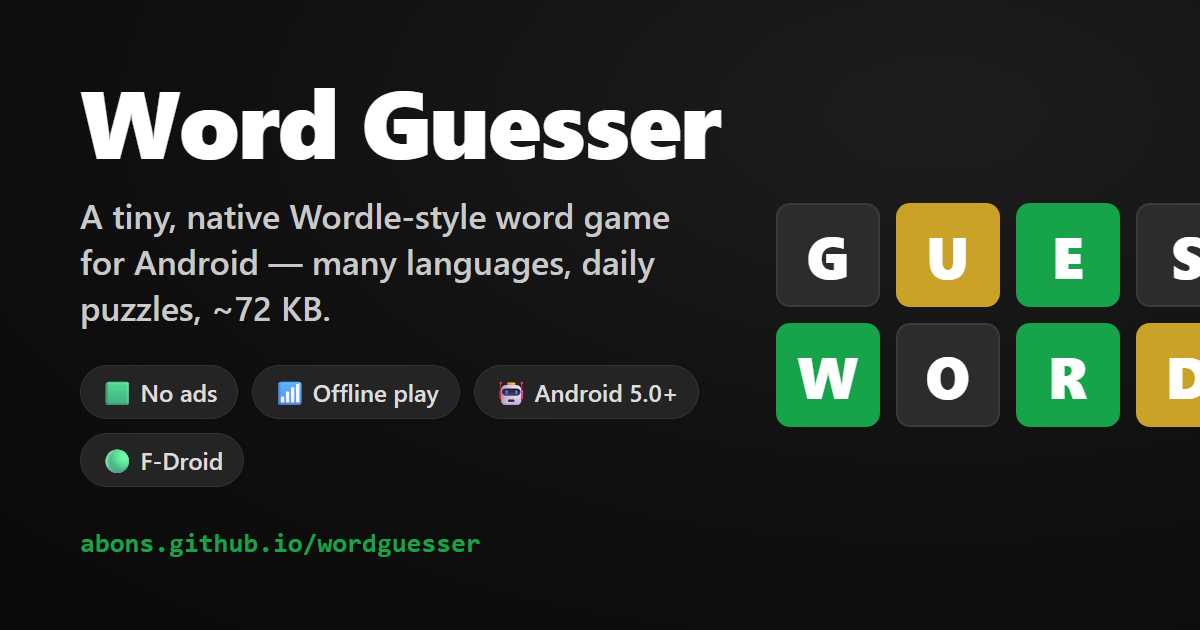
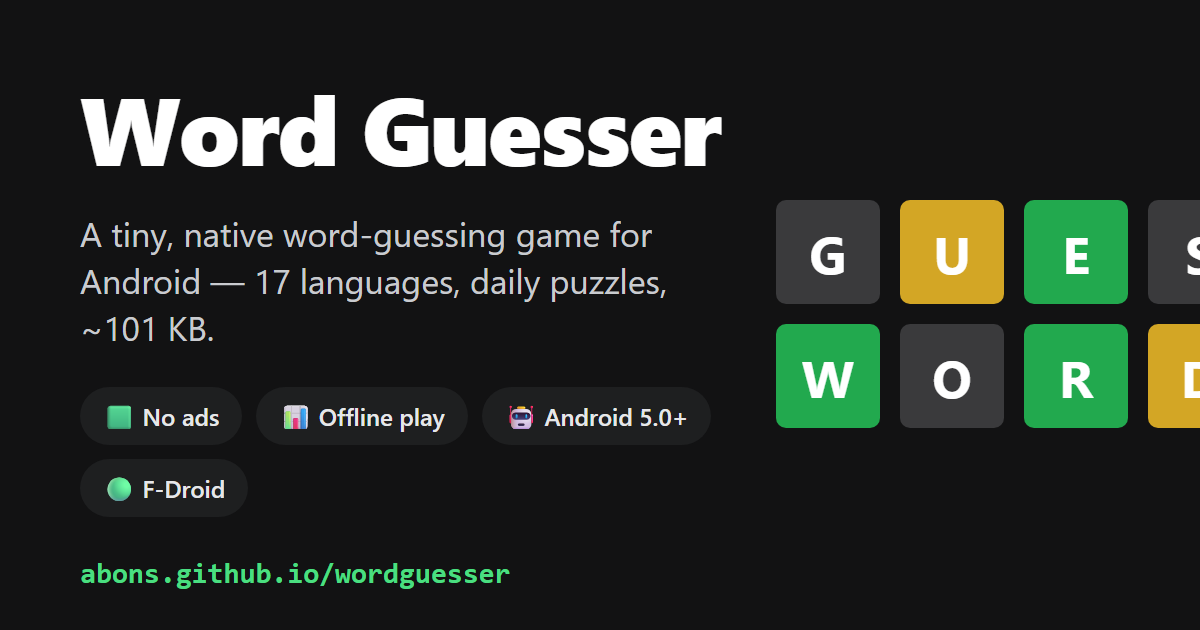
Word Guesser beschrijft zich met wat hij zelf is, niet met een merk van een ander
Wordle is een handelsmerk van een soortgelijk spel (zoals het Nederlandse Lingo
van vroeger) en deze app biedt aanzienlijk meer dan die vergelijking. Overal waar
"Wordle-style" stond staat nu wat er echt is: 17 talen, woordlengte 4-8,
dagpuzzel met leaderboard, timed-modus en duels tegen computer of speler.

- index.html: title, meta description, keywords, og:*, twitter:*, de JSON-LD
  description, de zichtbare tagline en de eigen regel in de spellenlijst.
- README.md en fdroid/apps/com.hrbons.wordguesser.meta (SUMMARY + DESCRIPTION).
- fdroid-official/metadata/*.yml ook, ook al is die route af (NOTES.md, geen
  officiele F-Droid): dat bestand blijft anders als enige de term dragen.

De onopvallendste stond in een PNG en geen enkele grep zou hem hebben gevonden:
assets/og.png is de social-card die bij elke gedeelde link verschijnt en zei
letterlijk "A tiny, native Wordle-style word game ... ~72 KB" -- een getal dat
ook al twee releases achterliep. Opnieuw gerenderd op 1200x630, zelfde indeling.
Er was geen generator, dus die is er nu wel: assets/og-card.html, headless te
renderen met
  chrome --headless --window-size=1200,630 --screenshot=<abs pad>/og.png <abs pad>/og-card.html
Geef --screenshot een absoluut pad, anders faalt hij met "Toegang geweigerd".

NOG OPEN: fdroid/repo/index-v1.json draagt de oude SUMMARY/DESCRIPTION nog,
want die is gegenereerd en ondertekend. rebuild-index.sh trekt hem bij, maar
[…]

diff --git a/index.html b/index.html
@@ -3,9 +3,9 @@
 <head>
 <meta charset="utf-8">
 <meta name="viewport" content="width=device-width, initial-scale=1">
-<title>Word Guesser — tiny native Wordle-style word game for Android</title>
-<meta name="description" content="Download Word Guesser: a tiny (~101 KB), native, ad-free Wordle-style word game for Android. Many languages, variable word length, daily puzzles, leaderboard. Get it directly or via F-Droid.">
-<meta name="keywords" content="Word Guesser, Wordle, Android word game, F-Droid, ad-free, no tracking, Nederlands, woordspel, native, lightweight APK">
+<title>Word Guesser — tiny native word-guessing game for Android</title>
+<meta name="description" content="Download Word Guesser: a tiny (~101 KB), native, ad-free word-guessing game for Android. 17 languages, word length 4–8, daily puzzles, leaderboard, timed mode and duels. Get it directly or via F-Droid.">
+<meta name="keywords" content="Word Guesser, word guessing game, daily word puzzle, Android word game, 17 languages, F-Droid, ad-free, no tracking, Nederlands, woordspel, native, lightweight APK">
 <meta name="author" content="hrbons">
 <meta name="google-site-verification" content="B81phBCY0u5E3xFZ7Vp7M6JqVuyCbMqDldoJch3vFNI">
 <meta name="theme-color" content="#16a34a">
@@ -14,16 +14,16 @@
 <!-- Open Graph -->
 <meta property="og:type" content="website">
 <meta property="og:site_name" content="Word Guesser">
-<meta property="og:title" content="Word Guesser — tiny native Wordle-style word game for Android">
-<meta property="og:description" content="A tiny (~101 KB), native, ad-free Wordle-style word game. Many languages, daily puzzles, leaderboard. Direct download or via F-Droid.">
+<meta property="og:title" content="Word Guesser — tiny native word-guessing game for Android">
+<meta property="og:description" content="A tiny (~101 KB), native, ad-free word-guessing game. 17 languages, daily puzzles, leaderboard, timed mode and duels. Direct download or via F-Droid.">
 <meta property="og:url" content="https://abons.github.io/wordguesser/">
 <meta property="og:image" content="https://abons.github.io/wordguesser/assets/og.png">
 <meta property="og:image:width" content="1200">
 <meta property="og:image:height" content="630">
 <!-- Twitter -->
 <meta name="twitter:card" content="summary_large_image">
-<meta name="twitter:title" content="Word Guesser — tiny native Wordle-style word game for Android">
-<meta name="twitter:description" content="A tiny (~101 KB), native, ad-free Wordle-style word game. Many languages, daily puzzles. Direct download or via F-Droid.">
+<meta name="twitter:title" content="Word Guesser — tiny native word-guessing game for Android">
+<meta name="twitter:description" content="A tiny (~101 KB), native, ad-free word-guessing game. 17 languages, daily puzzles, duels. Direct download or via F-Droid.">
 <meta name="twitter:image" content="https://abons.github.io/wordguesser/assets/og.png">
 <script type="application/ld+json">
 {
@@ -32,7 +32,7 @@
   "name": "Word Guesser",
   "operatingSystem": "Android 5.0+",
   "applicationCategory": "GameApplication",
-  "description": "A tiny, native Wordle-style word game for Android in pure Kotlin. Many downloadable languages, variable word length, strict/hard modes, daily puzzles per length with a public leaderboard.",
+  "description": "A tiny, native word-guessing game for Android in pure Kotlin. 17 downloadable languages, variable word length 4–8, strict/hard modes, daily puzzles per length with a public leaderboard, timed mode and duels against the computer or another player.",
   "url": "https://abons.github.io/wordguesser/",
   "downloadUrl": "https://abons.github.io/wordguesser/fdroid/repo/com.hrbons.wordguesser_5.apk",
   "softwareVersion": "2.3",
@@ -105,7 +105,7 @@
 <body>
 <main>
   <h1>🟩 Word Guesser</h1>
-  <p class="tag">A tiny, native Android Wordle-style word game. ~101&nbsp;KB. Android 5.0+.</p>
+  <p class="tag">A tiny, native Android word-guessing game. ~101&nbsp;KB. Android 5.0+.</p>
 
   <img class="shot" src="assets/screenshot.png" width="1080" height="2400"
        alt="Word Guesser gameplay: the guesses TRAIN and PLANK with green, yellow and gray letter
@@ -155,7 +155,7 @@
       only — no ads, no tracking, no third-party libraries, and an APK measured in kilobytes.</p>
     <ul class="games">
       <li><span class="n">Word Guesser</span> <span class="pill">v2.3 — this page</span>
-        <span class="d">Wordle-style guessing, 17 languages, daily puzzle, duels.</span></li>
+        <span class="d">Guess the word from colour clues; 17 languages, daily puzzle, duels.</span></li>
       <li><span class="n">Word Swipe</span>
         <a class="pill" href="fdroid/repo/com.hrbons.wordfinder_2.apk" download>v1.1 — download APK</a>
         <span class="d">Swipe letters on a wheel to fill a crossword; bonus words pay for hints.</span></li>

diff --git a/assets/og-card.html b/assets/og-card.html
@@ -1,0 +1,65 @@
+<!doctype html>
+<html><head><meta charset="utf-8">
+<style>
+  * { margin:0; padding:0; box-sizing:border-box; }
+  html,body { width:1200px; height:630px; overflow:hidden; }
+  body {
+    background:#121213;
+    font-family:"Segoe UI",system-ui,sans-serif;
+    position:relative;
+  }
+  .left { position:absolute; left:80px; top:78px; width:700px; }
+  h1 {
+    font-family:"Segoe UI Black","Arial Black","Segoe UI",sans-serif;
+    font-weight:900; font-size:96px; line-height:1.0; color:#fff;
+    letter-spacing:-2px;
+  }
+  .tag {
+    margin-top:36px; font-size:34px; line-height:1.38; color:#c9cbcf;
+    font-weight:400; max-width:620px;
+  }
+  .pills { margin-top:36px; display:flex; flex-wrap:wrap; gap:14px; max-width:672px; }
+  .pill {
+    background:#1e1f20; border-radius:999px; padding:13px 23px;
+    font-size:24px; color:#e6e7e9; font-weight:600; white-space:nowrap;
+  }
+  .url {
+    position:absolute; left:80px; top:556px;
+    font-family:Consolas,"Courier New",monospace; font-weight:700;
+    font-size:29px; color:#4ade80;
+  }
+  .board { position:absolute; left:776px; top:200px; }
+  .row { display:flex; gap:20px; margin-bottom:20px; }
+  .t {
+    width:104px; height:104px; border-radius:10px;
+    display:flex; align-items:center; justify-content:center;
+    font-family:"Segoe UI",sans-serif; font-weight:700; font-size:52px; color:#fff;
+  }
+  .grey { background:#3a3a3c; }
+  .yellow { background:#d3a625; }
+  .green { background:#22a94e; }
+</style></head>
+<body>
+  <div class="left">
+    <h1>Word Guesser</h1>
+    <p class="tag">A tiny, native word-guessing game for Android
+      &mdash; 17 languages, daily puzzles, ~101&nbsp;KB.</p>
+    <div class="pills">
+      <span class="pill">🟩 No ads</span>
+      <span class="pill">📊 Offline play</span>
+      <span class="pill">🤖 Android 5.0+</span>
+      <span class="pill">🟢 F-Droid</span>
+    </div>
+  </div>
+  <div class="url">abons.github.io/wordguesser</div>
+  <div class="board">
+    <div class="row">
+      <div class="t grey">G</div><div class="t yellow">U</div>
+      <div class="t green">E</div><div class="t grey">S</div>
+    </div>
+    <div class="row">
+      <div class="t green">W</div><div class="t grey">O</div>
+      <div class="t green">R</div><div class="t yellow">D</div>
+    </div>
+  </div>
+</body></html>

diff --git a/README.md b/README.md
@@ -1,6 +1,6 @@
 # 🟩 Word Guesser
 
-**A tiny, native Wordle-style word game for Android** — pure Kotlin, no ads, no trackers,
+**A tiny, native word-guessing game for Android** — pure Kotlin, no ads, no trackers,
 ~72&nbsp;KB. Guess the hidden word in six tries.
 
 ### ▶ [**Download / F-Droid → abons.github.io/wordguesser**](https://abons.github.io/wordguesser/)
@@ -31,7 +31,7 @@ Then search for **Word Guesser** and install. Updates arrive automatically.
 
 ## Features
 
-- 🟩 Classic Wordle scoring — green / yellow / gray, with correct duplicate-letter handling.
+- 🟩 Classic letter-clue scoring — green / yellow / gray, with correct duplicate-letter handling.
 - 🌍 **Many languages** via downloadable word lists (English, Nederlands, Français, Deutsch,
   Español, and more) — fetched on demand, cached offline.
 - 🔠 **Variable word length** (4–8) — the board resizes to fit.
